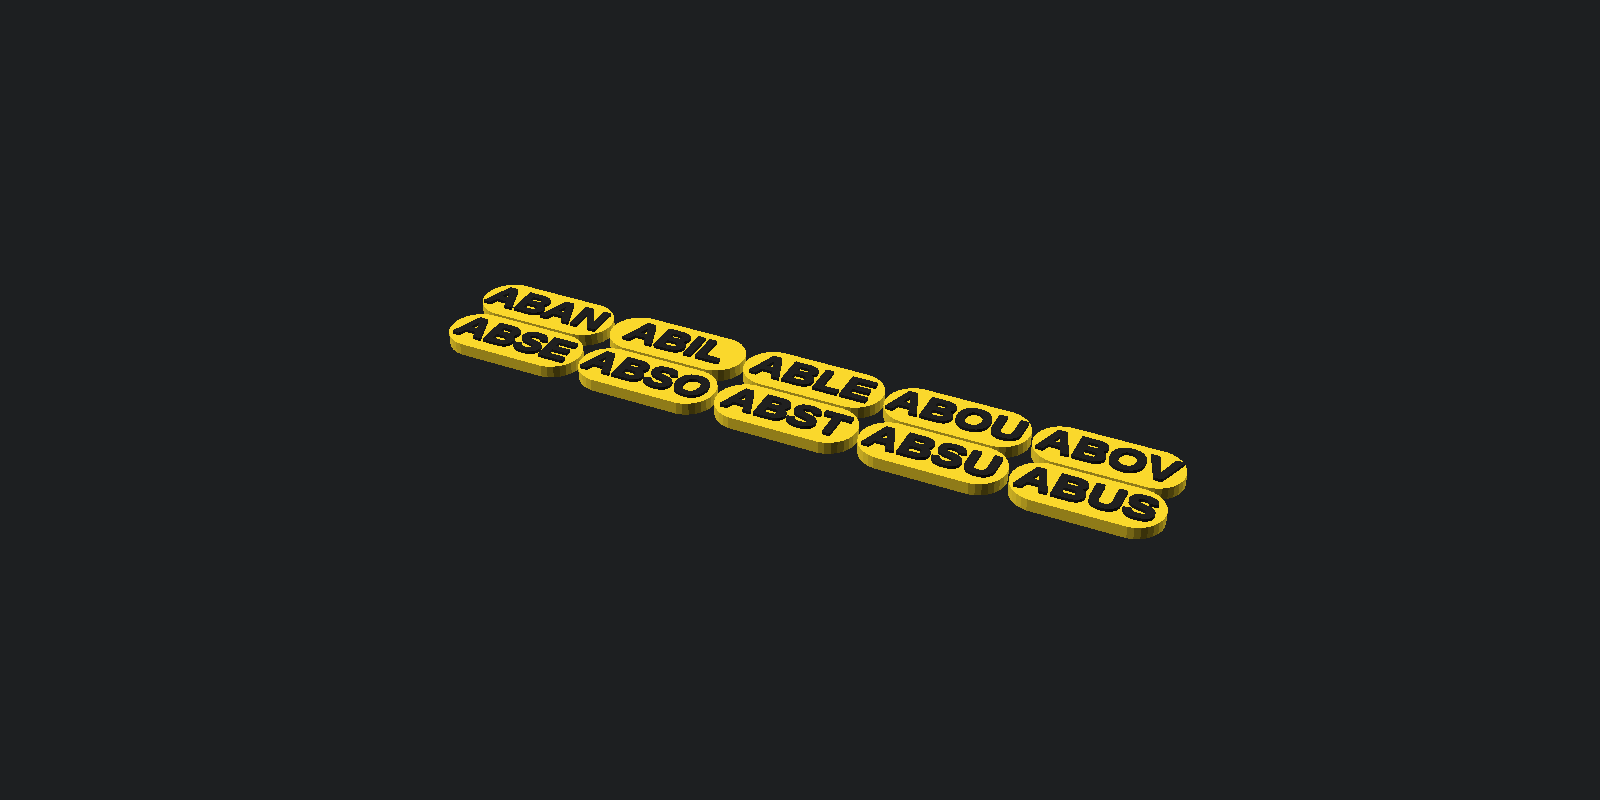
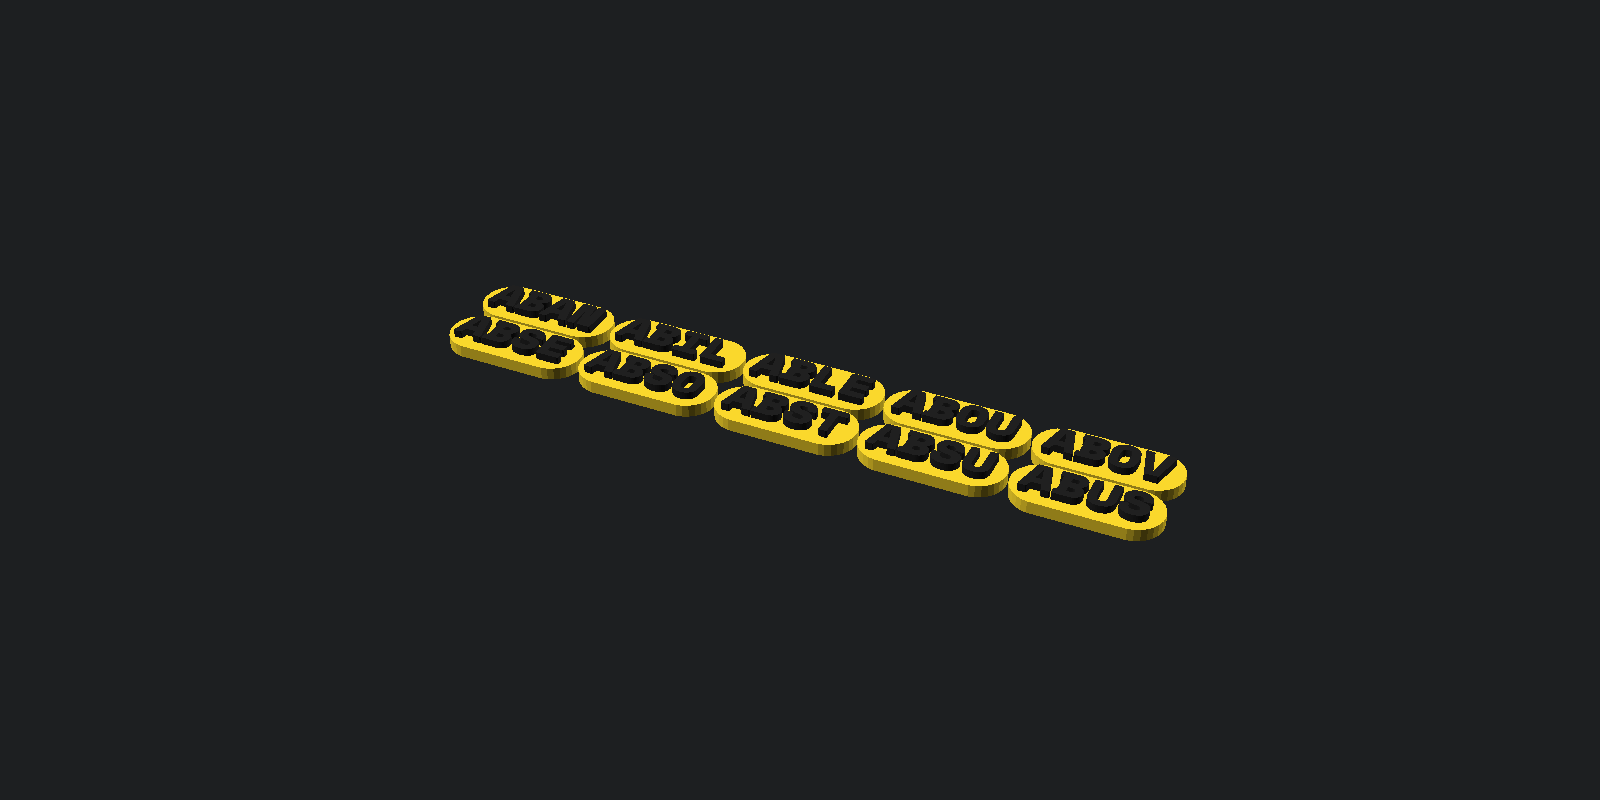
Thicken raised text and add font palette

Changed region(s): [[0.2812, 0.3438, 0.75, 0.6875]]

diff --git a/README.md b/README.md
@@ -67,7 +67,7 @@ from what is printed.
 - Separate base and text meshes for two-color printing
 - Vendor-neutral STL output; no slicer-specific project format required
 - Clean individual pills without breakaway-link scars
-- 2.0 mm total thickness: 1.6 mm base plus 0.4 mm raised text
+- 2.6 mm total thickness: 1.6 mm base plus 1.0 mm raised text
 - Space Mono Bold lettering expanded by 0.12 mm and fitted from its glyph
   outlines for large type that stays clear of the rounded pill edges
 - 0.4 mm gaps between pills—close together without shared geometry
@@ -82,6 +82,27 @@ Requirements:
 - [Space Mono](https://fonts.google.com/specimen/Space+Mono), installed with the
   Bold style
 - Python 3 only if you want to render batches automatically
+
+### Font palette
+
+Space Mono Bold is the current production font. This palette compares it with
+other installed bold faces using the real pill dimensions, 0.12 mm glyph
+expansion, geometry-aware fitting, and 1.0 mm text extrusion. `WMWM` stresses
+the widest letter combination.
+
+![SeedPills font comparison palette](pictures/font-palette.png)
+
+| Font | Tradeoff |
+|---|---|
+| Space Mono Bold | Current choice; open, geometric, and reproducible |
+| PT Mono Bold | Compact and clear; an excellent alternate |
+| Menlo Bold | Crisp and compact, but primarily available on Apple systems |
+| SF Mono Heavy | Very thick strokes, but Apple-specific |
+| Courier New Bold | Widely available with a more traditional appearance |
+| Fredoka Bold | Rounded and highly printable, but not monospaced |
+
+For reproducible output on another machine, install the exact chosen font or
+change the `font` variable in `seeds.scad`.
 
 To inspect or export directly:
 
@@ -153,7 +174,7 @@ Recommended starting point for PLA or PETG:
 | Walls | 3 |
 | Supports | None |
 
-The base is eight 0.2 mm layers and the text is two more layers. If adhesion
+The base is eight 0.2 mm layers and the text is five more layers. If adhesion
 is marginal, use a small per-object brim. A shared brim can join neighboring
 pills and leave rough edges.
 
